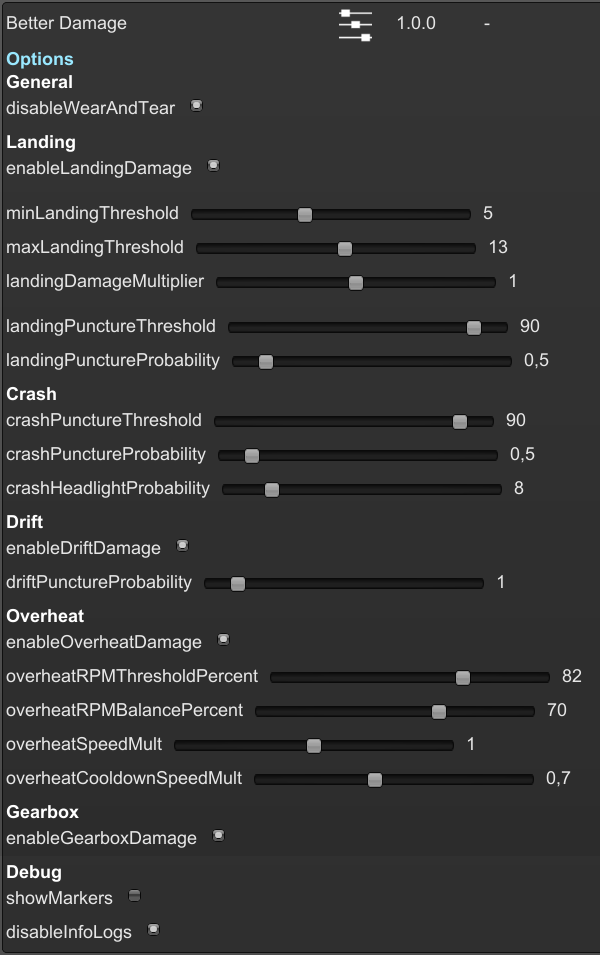
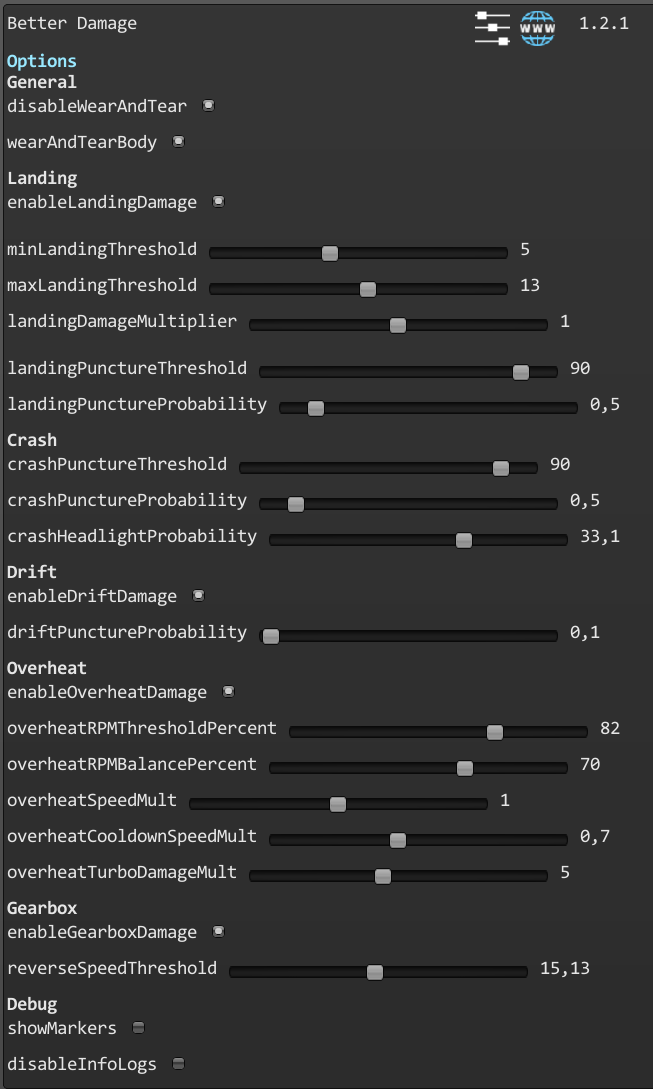
Update infos and docs

diff --git a/Readme.md b/Readme.md
@@ -99,8 +99,9 @@ Calculations of drifting state and drifting durations are wheel specific.
 
 When shifting gears, the gearbox can take damages in two situations :
 
-- If you shift to a higher gear while throttling and the RPM of the engine is lower than the RPM at which the automatic transmission would shift down. This strains the engine and it will take damage.
-- If you shift to a lower gear and the engine RPM increases close to it's max. This forces the gearbox to absorb the excess speed of the engine and it takes damage.
+- If you shift to a higher gear while throttling and the RPM of the engine is lower than the RPM at which the automatic transmission would shift down. This strains the engine and the gearbox and they will take damage.
+- If you shift to a lower gear and the engine RPM increases close to it's max. This forces the gearbox to absorb the excess speed of the engine and they take damage.
+- If you shift to the reverse gear when your forward speed is too high you'll damage your gearbox.
 
 #### Balancing
 
@@ -162,6 +163,7 @@ All other game modes should be supported by this mod.
 ### Gearbox
 
 - **enableGearboxDamage** : will enable damages on the gearbox when switching gears.
+- **reverseSpeedThreshold** : will change the minimum speed at which switching to reverse will damage the gearbox and affect how much damage you take (lower speed = higher damage).
 
 ### Debug
 